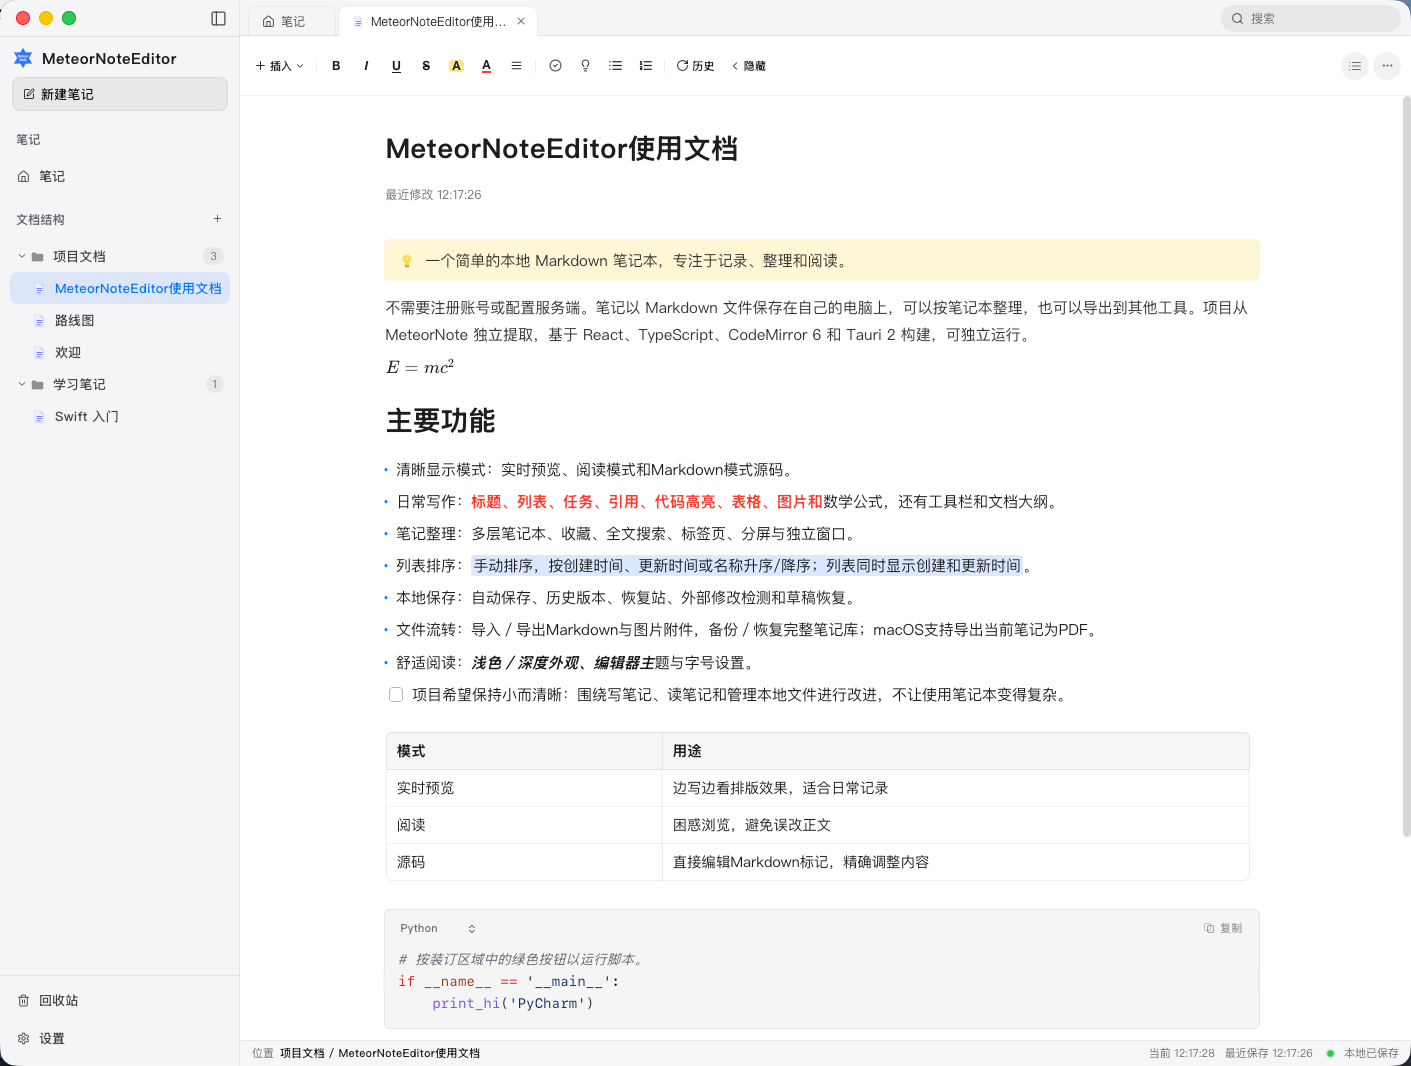
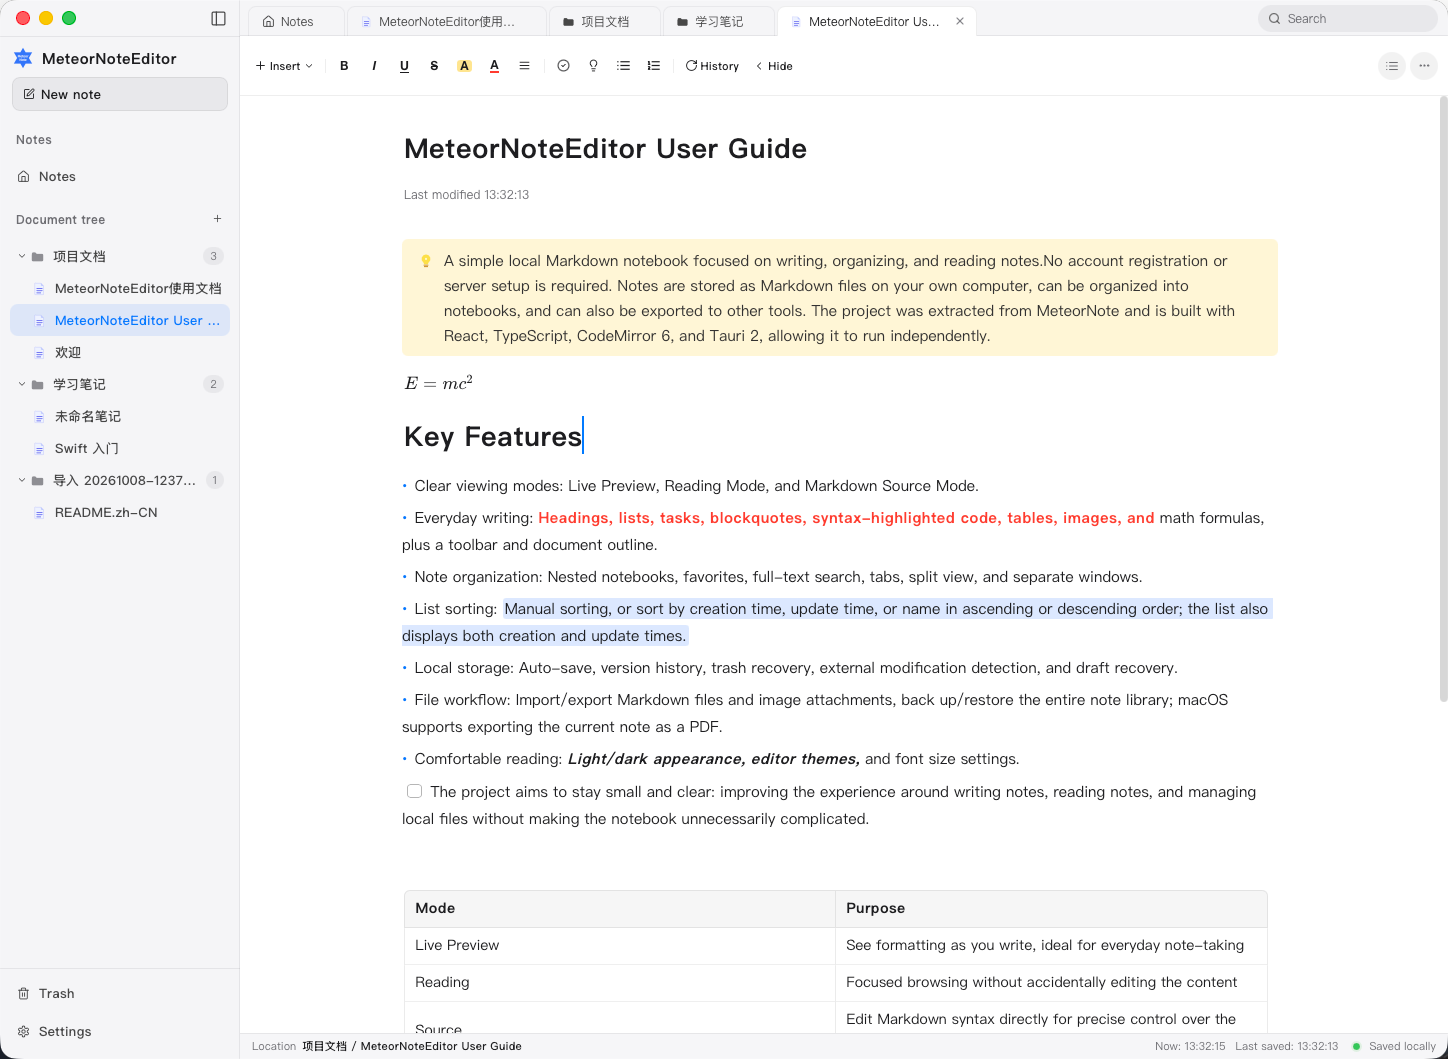
Update Markdown documentation

diff --git a/src/components/Sidebar.tsx b/src/components/Sidebar.tsx
@@ -13,6 +13,7 @@ import { TextPromptDialog } from "@/components/TextPromptDialog";
 import { WindowTrafficLights } from "@/components/WindowTrafficLights";
 import * as api from "@/lib/api";
 import { useBrand } from "@/hooks/useBrand";
+import { useLibraryTransfer } from "@/hooks/useLibraryTransfer";
 import { handleWindowDragMouseDown } from "@/lib/windowDrag";
 import { SIDEBAR_WIDTH_MAX, SIDEBAR_WIDTH_MIN, useAppStore, } from "@/store/appStore";
 import type { LibraryNotebook, LibraryNote, SidebarPage } from "@/types/library";
@@ -296,6 +297,7 @@ function NotebookTree({ nodes, depth, query, dragState, dropState, onNotebookCon
     </>);
 }
 export function Sidebar() {
+    const transfer = useLibraryTransfer();
     const brand = useBrand();
     const notebooks = useAppStore((s) => s.notebooks);
     const selected = useAppStore((s) => s.selected);
@@ -575,6 +577,17 @@ export function Sidebar() {
                 label: t("新建笔记"),
                 onSelect: () => void createAndPromptNote(() => createNoteInNotebook(nb.id)),
             },
+            {
+                id: "import",
+                label: t("导入"),
+                disabled: transfer.busy,
+                submenu: [
+                    { id: "import-files", label: t("Markdown 文件…"),
+                        onSelect: () => void transfer.run("files", nb.id) },
+                    { id: "import-folder", label: t("文件夹中的 Markdown…"),
+                        onSelect: () => void transfer.run("folder", nb.id) },
+                ],
+            },
         ];
         if (nb.parentPath == null) {
             items.push({
@@ -710,6 +723,11 @@ export function Sidebar() {
       </div>
 
       <div className={`mn-sidebar__footer ${collapsed ? "is-collapsed" : ""}`}>
+        {!collapsed && (transfer.busy || transfer.message || transfer.error) &&
+          <p className={`mn-sidebar__transfer${transfer.error ? " mn-error" : ""}`}
+            role={transfer.error ? "alert" : "status"}>
+            {transfer.error || (transfer.busy ? t("导入中…") : transfer.message)}
+          </p>}
         <SidebarRow title={collapsed ? "" : t("回收站")} icon={<Icon name="trash" size={13}/>} selected={selected === "trash"} badge={collapsed ? null : trashCount} onClick={() => void select("trash")}/>
         <SidebarRow title={collapsed ? "" : t("设置")} icon={<Icon name="cog-6-tooth" size={13}/>} selected={selected === "settings"} onClick={() => void select("settings")}/>
       </div>

diff --git a/scripts/notebook-import-regression.tsx b/scripts/notebook-import-regression.tsx
@@ -14,6 +14,7 @@ let counter=0;
 mockWindows('main');
 mockIPC((command,payload)=>{
   if(command==='plugin:dialog|open') return mode==='cancel'?null:['/fixture/模拟导入.md'];
+  if(command==='plugin:window|is_fullscreen'||command==='plugin:window|is_maximized') return false;
   if(command==='list_notebooks') return structuredClone([root]);
   if(command==='library_stats') return {noteCount:root.notes.length+child.notes.length,notebookCount:2,trashCount:0};
   if(command==='transfer_library') {
@@ -29,10 +30,12 @@ mockIPC((command,payload)=>{
   throw new Error(`Unexpected fixture command: ${command}`);
 },{shouldMockEvents:true});
 const {PageContent}=await import('../src/components/PageContent');
+const {Sidebar}=await import('../src/components/Sidebar');
 const {useAppStore}=await import('../src/store/appStore');
-useAppStore.setState({notebooks:[root]});
+useAppStore.setState({notebooks:[root],selected:{notebook:child.id},expandedNotebooks:new Set([root.id,child.id])});
 function Fixture() {
-  const [page,setPage]=useState<SidebarPage>({notebook:child.id});
+  const page=useAppStore(state=>state.selected);
+  const setPage=(selected:SidebarPage)=>useAppStore.setState({selected});
   const [request,setRequest]=useState('尚未导入');
   report=setRequest;
   return <div style={{padding:16}}>
@@ -45,7 +48,7 @@ function Fixture() {
         <option value="success">正常导入</option><option value="cancel">取消选择</option><option value="failure">导入失败</option>
       </select>
     </nav>
-    <div style={{height:360,border:'1px solid var(--mn-border)'}}><PageContent page={page} /></div>
+    <div style={{height:460,display:"flex",border:"1px solid var(--mn-border)"}}><Sidebar/><div style={{flex:1,minWidth:0}}><PageContent page={page} /></div></div>
     <pre aria-label="最近导入请求">{request}</pre>
   </div>;
 }

diff --git a/src/hooks/useLibraryTransfer.ts b/src/hooks/useLibraryTransfer.ts
@@ -8,12 +8,12 @@ export function useLibraryTransfer(notePath?: string, targetNotebookPath?: strin
   const [busy, setBusy] = useState(false);
   const [message, setMessage] = useState("");
   const [error, setError] = useState("");
-  const run = useCallback(async (kind: TransferKind) => {
+  const run = useCallback(async (kind: TransferKind, importTarget = targetNotebookPath) => {
     if (running.current) return;
     running.current = true;
     setBusy(true); setError(""); setMessage("");
     try {
-      const result = await chooseLibraryTransfer(kind, notePath, targetNotebookPath);
+      const result = await chooseLibraryTransfer(kind, notePath, importTarget);
       if (!result) return;
       await useAppStore.getState().refresh();
       setMessage(kind === "files" || kind === "folder"

diff --git a/src/components/Sidebar.css b/src/components/Sidebar.css
@@ -357,3 +357,9 @@
     background: rgba(255, 255, 255, 0.1);
   }
 }
+.mn-sidebar__transfer {
+  margin: 4px 12px 8px;
+  font-size: 12px;
+  line-height: 1.5;
+  overflow-wrap: anywhere;
+}

diff --git a/docs/screenshots/README.md b/docs/screenshots/README.md
@@ -4,9 +4,9 @@
 
 应用效果截图统一放在这个目录：`docs/screenshots/`。它们是项目介绍用的图片，随仓库一起提交；应用图标仍放在原来的 `public/` 和 `src-tauri/icons/` 中。
 
-已加入主界面截图 `overview.png`，中英文 README 开头均已展示。更新主图时替换同名文件即可。
+主界面截图按语言分别展示：英文 README 使用 `overview.png`，中文 README 使用 `overview_zh.png`。更新时替换对应的同名文件即可。
 
-![MeteorNoteEditor 应用主界面](overview.png)
+![MeteorNoteEditor 中文应用主界面](overview_zh.png)
 
 ## 文件命名与展示内容
 
@@ -14,7 +14,8 @@
 
 | 文件名 | 建议内容 |
 | --- | --- |
-| `overview.png` | 主图：浅色模式下的完整应用窗口，包含侧栏和一篇易读的示例笔记 |
+| `overview.png` | 英文主图：英文界面的完整应用窗口，用于英文 README |
+| `overview_zh.png` | 中文主图：中文界面的完整应用窗口，用于中文 README |
 | `editing.png` | 可选：正文、标题、列表、表格等常用格式，展示编辑效果 |
 | `dark-mode.png` | 可选：同一篇笔记的深色外观，便于对比 |
 | `source-mode.png` | 可选：同一篇笔记的 Markdown 源码模式 |
@@ -24,14 +25,14 @@
 ## 添加到首页
 
 1. 在真实应用中截图。macOS 可按 `⌘ ⇧ 4`，再按空格，选择应用窗口。
-2. 将主图命名为 `overview.png`，放入当前目录。其他截图使用上表中的名称。
-3. 两份根目录 README 已引用 `overview.png`，替换主图不需要修改引用。添加其他截图或更改文件名时，同步两份 README 的图片路径；图片引用应放在 `<!-- ... -->` 注释外。
+2. 英文界面截图命名为 `overview.png`，中文界面截图命名为 `overview_zh.png`，放入当前目录。其他截图使用上表中的名称。
+3. 两份根目录 README 已分别引用对应语言的主图，替换同名图片不需要修改引用。添加其他截图或更改文件名时，更新对应 README 的图片路径；图片引用应放在 `<!-- ... -->` 注释外。
 4. 预览两份 Markdown，确认图片正常显示，再一起提交图片和文档。
 
 中文 README 的引用：
 
 ```md
-![MeteorNoteEditor macOS 主界面：笔记本侧栏与清爽的 Markdown 编辑页面](docs/screenshots/overview.png)
+![MeteorNoteEditor macOS 中文主界面：笔记本侧栏与清爽的 Markdown 编辑页面](docs/screenshots/overview_zh.png)
 ```
 
 英文 README 的引用：
@@ -40,7 +41,7 @@
 ![MeteorNoteEditor on macOS: notebook sidebar and a clean Markdown editing page](docs/screenshots/overview.png)
 ```
 
-这些路径相对于仓库根目录的 README；其他目录中的文档引用时需调整相对路径。中英文介绍共用图片即可，不需要重复存储。
+这些路径相对于仓库根目录的 README；其他目录中的文档引用时需调整相对路径。请保留中英文主图的独立引用，避免展示错误的界面语言。
 
 ## 图片建议
 
@@ -52,8 +53,8 @@
 
 ## English quick guide
 
-Store application screenshots in `docs/screenshots/`. Start with `overview.png`: a real application window with a simple sample note that shows the clean writing layout. Optional images are `editing.png`, `dark-mode.png`, and `source-mode.png`.
+Store application screenshots in `docs/screenshots/`. Use `overview.png` for the English interface and `overview_zh.png` for the Chinese interface. Capture a real application window with a simple sample note that shows the clean writing layout. Optional images are `editing.png`, `dark-mode.png`, and `source-mode.png`.
 
-The main screenshot, `overview.png`, is already displayed near the top of both root READMEs. Replace that file to update the main image. For additional screenshots or filename changes, update both READMEs, keep image references outside HTML comments, and check the preview. Both language versions use the same screenshots.
+The English README displays `overview.png`; `README.zh-CN.md` displays `overview_zh.png`. Replace the corresponding file to update each main image. For additional screenshots or filename changes, update the relevant README, keep image references outside HTML comments, and check both previews.
 
 Use sample content without personal information. Aim for a readable 1440–1920 px image and roughly 1 MB per screenshot. Prefer PNG for text-heavy screenshots; if you use WebP, update the references accordingly.

diff --git a/docs/USER_GUIDE.md b/docs/USER_GUIDE.md
@@ -43,7 +43,7 @@ MeteorNoteEditor 围绕简单记录与清爽排版设计。日常使用只需创
 
 ## 导入导出与备份
 
-导入 Markdown 时，先从侧栏打开目标笔记本，在该页面右下角点击“导入”。可以选择一个或多个 Markdown 文件，也可以选择文件夹批量导入；导入完成后，当前列表会自动刷新。
+导入 Markdown 时，在左侧“文档结构”中右键目标文件夹，选择“导入”；也可以先打开目标笔记本，在页面右下角点击“导入”。两处入口均支持选择一个或多个 Markdown 文件，以及选择文件夹批量导入；导入完成后，文档树和笔记列表会自动刷新。
 
 从哪个笔记本导入，就保存到哪个笔记本，子笔记本也一样。单个文件直接成为当前笔记本中的笔记；文件夹批量导入保留其中的子目录结构。同名笔记自动追加编号，不覆盖已有内容。笔记正文的“更多”菜单和“全部笔记”汇总页不提供导入入口。
 

diff --git a/README.zh-CN.md b/README.zh-CN.md
@@ -8,7 +8,7 @@
 
 打开一篇笔记就能开始写。习惯 Markdown，就直接输入；想少记语法，就用工具栏。文件保存在自己的电脑上，需要时可以导出到其他工具，不需要注册账号或配置服务端。
 
-![MeteorNoteEditor macOS 主界面：笔记本侧栏与清爽的 Markdown 编辑页面](docs/screenshots/overview.png)
+![MeteorNoteEditor macOS 中文主界面：笔记本侧栏与清爽的 Markdown 编辑页面](docs/screenshots/overview_zh.png)
 
 ## 为什么做这个笔记本
 
